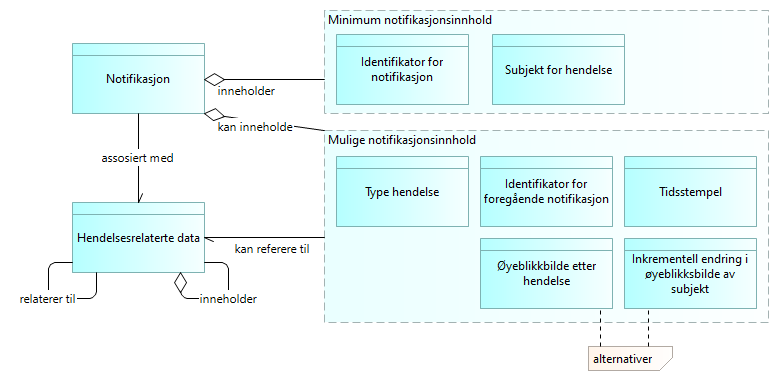
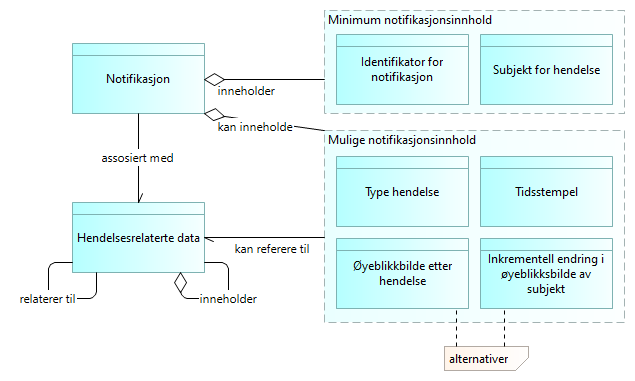
Dev

diff --git a/unit-ra/main/unit-ra-datadeling-datautveksling/Notifikasjonsinnhold - basiskonsept UHF.var.1.html b/unit-ra/main/unit-ra-datadeling-datautveksling/Notifikasjonsinnhold - basiskonsept UHF.var.1.html
@@ -225,12 +225,6 @@ Gå tilbake til standardvisning ved å klikke 'tilbake' (eller lukk dette vindue
 </div></div></td>
 </tr>
 <tr>
-<td class="tableblock halign-left valign-top"><p class="tableblock">Identifikator for foregående notifikasjon</p></td>
-<td class="tableblock halign-left valign-top"><div class="content"><div class="paragraph">
-<p>Informasjon som identifiserer når forretningshendelsen ble utført. Tidsfesting av hendelser kan benyttes til å sikre at notifikasjoner behandles i riktig rekkefølge.</p>
-</div></div></td>
-</tr>
-<tr>
 <td class="tableblock halign-left valign-top"><p class="tableblock">Minimum notifikasjonsinnhold</p></td>
 <td class="tableblock halign-left valign-top"><div class="content"><div class="paragraph">
 <p>En notifikasjon består (minst) av en identifikator for notifikasjonen, samt informasjon om hvilke data som har blitt endret (referanse til data).</p>

diff --git a/unit-ra/main/Bøker/Referansearkitektur for deling av data i høyere utdanning og forsking.html b/unit-ra/main/Bøker/Referansearkitektur for deling av data i høyere utdanning og forsking.html
@@ -155,7 +155,7 @@
 </div>
 <div class="listingblock">
 <div class="content">
-<pre>Thu Mar 17 2022 16:29:32 GMT+0100 (CET)</pre>
+<pre>Fri Mar 18 2022 11:42:34 GMT+0100 (CET)</pre>
 </div>
 </div>
 </div>
@@ -209,6 +209,12 @@ administrative prosesser</p>
 <li>
 <p>Tilrettelegge for «orden i eget hus» gjennom å bygge opp under felles
 praksis for informasjonsforvaltning</p>
+</li>
+<li>
+<p>Skape trygge og sikker rammer for datadeling</p>
+</li>
+<li>
+<p>Effektivisere forvaltning av informasjon</p>
 </li>
 </ul>
 </div>

diff --git a/unit-ra/main/unit-ra-datadeling-introduksjon/Bakgrunn.html b/unit-ra/main/unit-ra-datadeling-introduksjon/Bakgrunn.html
@@ -198,6 +198,12 @@ administrative prosesser</p>
 <p>Tilrettelegge for «orden i eget hus» gjennom å bygge opp under felles
 praksis for informasjonsforvaltning</p>
 </li>
+<li>
+<p>Skape trygge og sikker rammer for datadeling</p>
+</li>
+<li>
+<p>Effektivisere forvaltning av informasjon</p>
+</li>
 </ul>
 </div>
 <div class="paragraph">

diff --git a/unit-ra/main/unit-ra-datadeling-introduksjon/Introduksjon.html b/unit-ra/main/unit-ra-datadeling-introduksjon/Introduksjon.html
@@ -197,6 +197,12 @@ administrative prosesser</p>
 <p>Tilrettelegge for «orden i eget hus» gjennom å bygge opp under felles
 praksis for informasjonsforvaltning</p>
 </li>
+<li>
+<p>Skape trygge og sikker rammer for datadeling</p>
+</li>
+<li>
+<p>Effektivisere forvaltning av informasjon</p>
+</li>
 </ul>
 </div>
 <div class="paragraph">

diff --git a/unit-ra/main/index.html b/unit-ra/main/index.html
@@ -224,6 +224,9 @@ ut fra behov.</p>
 <li>
 <p>Det bør defineres hvordan man refererer unikt til data.</p>
 </li>
+<li>
+<p>Det bør utføres brukertesting av referansearkitekturen hos målgruppene for de definerte rollene</p>
+</li>
 </ul>
 </div>
 </article>
